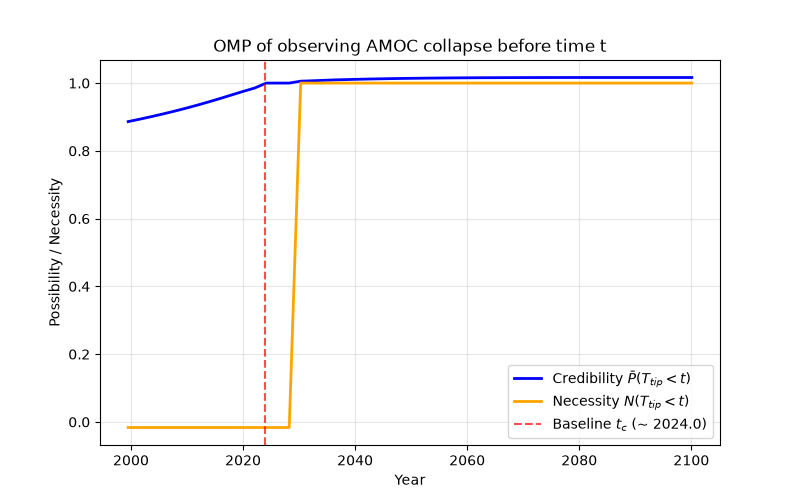
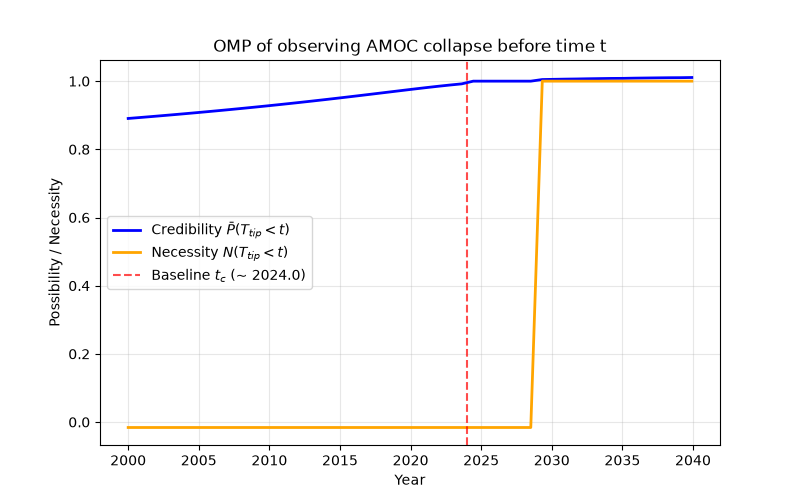
must do test with more equation points

diff --git a/main_ter.py b/main_ter.py
@@ -202,10 +202,10 @@ if __name__ == "__main__":
     function = joint_flattened
     max_loglik_global, best_params, other_params = MLE(function, params)
 
-    profiles = marg(function, params, max_loglik_global, best_params)
+    #profiles = marg(function, params, max_loglik_global, best_params)
 
-    plot_profiles(profiles, best_params, f"{function.__name__}_marg.png")
-    computed_intervals = credibility_intervals(profiles=profiles, intervals=intervals, func_name=function.__name__, threshold=0.25, filename="estimation_metrics.txt")
+    #plot_profiles(profiles, best_params, f"{function.__name__}_marg.png")
+    #computed_intervals = credibility_intervals(profiles=profiles, intervals=intervals, func_name=function.__name__, threshold=0.25, filename="estimation_metrics.txt")
 
     best_params.update(other_params)
 
@@ -225,10 +225,10 @@ if __name__ == "__main__":
     lambda0 = best_params["lambda0"] #need to concatenate dictionaries of estimated parameters!
     m = best_params["m"]
     t_c = best_params["t_c"]
-    print("t_c value = ", t_c)
+    #print("t_c value = ", t_c)
 
 
-    short_time = from_t0[(2000 <= from_t0) & (from_t0 <= t_c + 5)]
+    #short_time = from_t0[(2000 <= from_t0) & (from_t0 <= t_c + 5)]
 
 
     sim = False
@@ -256,7 +256,7 @@ if __name__ == "__main__":
 
 
 
-    # draw a line to show when the noise-induced tipping EK approx goes up again (sign that the approx is breaking down)
+    """# draw a line to show when the noise-induced tipping EK approx goes up again (sign that the approx is breaking down)
     short_time = np.array(from_t0[n//2:]) # for better visualization
     #short_time = short_time[short_time <= t_c]
     lamb_seq = [lambda_t_formula(t, lambda0, tau) for t in short_time]
@@ -277,7 +277,7 @@ if __name__ == "__main__":
     plt.grid(True, which="both", ls="--", alpha=0.5)
     plt.legend(fontsize=12)
     plt.savefig("images/mean_tau_noise_evolution.png")  # diagnostic, independent of joint vs joint_flattened -- left as-is
-    plt.close()
+    plt.close()"""
 
 
 
@@ -287,9 +287,6 @@ if __name__ == "__main__":
     potential_barrier = []
     #for i in range(len(short_time)):
         #potential_barrier.append(U(x_minus[i], lamb_seq[i], a, m) - U(x_plus[i], lamb_seq[i], a, m))
-
-
-
 
     test_time = [t for t in range(1, 160)]
     values = [best_params["alpha"], best_params["mu"], best_params["sigma2"], best_params["tau"], best_params["a"]]
@@ -316,8 +313,8 @@ if __name__ == "__main__":
     # Example & Possibility Curve Plotting
     # =============================================================================
 
-    T_max = t_c + 10
-    T_values = np.linspace(short_time[0], short_time[-1], num=50) #we just select 10 points
+    time_for_predict = np.arange(2000, 2040, 1 / 12)
+    T_values = np.linspace(time_for_predict[0], time_for_predict[-1], num=50) #we just select 50 points
     N_pts = len(T_values)
 
     poss_values = np.zeros_like(T_values)
@@ -467,7 +464,7 @@ if __name__ == "__main__":
     years = T_values #t0_year + T_values
 
 
-    evol = True
+    evol = False
     if evol:
         cmap_byr = LinearSegmentedColormap.from_list("BlueYellowRed", ["blue", "yellow", "red"])
 

diff --git a/constants.py b/constants.py
@@ -77,11 +77,11 @@ assert X_OBS is not None and T_OBS is not None, (
 
 T_SWITCH = 1924.0   # density switches from linearized (q) to Strang (s) here
 
-N_STAT, N_NONSTAT = 10, 25
-denom_norm = 1.0 / (N_STAT + N_NONSTAT)   # for normalizing the D_B sum to a per-transition average
+N_STAT, N_NONSTAT = 20, 50
+
 
 # FP-solver resolution for the true-model transitions entering D_B
-FP_N, FP_STEPS = 100, 50 #TODO: i have divided by 2 the resolution for faster speed but should improve for better accuracy
+FP_N, FP_STEPS = 200, 100 #TODO: i have divided by 2 the resolution for faster speed but should improve for better accuracy
 
 
 def _pick(idx, k):

diff --git a/example.py b/example.py
@@ -239,7 +239,7 @@ def flattened_loglik(theta, params):
     def inner_objective(tilde_theta):
         q_pdf = make_approx_pdf(tilde_theta, X_PREV, T_PREV, T_NEXT)
         D_B_sum = sol.bhattacharyya(q_pdf).sum()
-        return (denom_norm + 1)*(D_B_sum + joint(list(tilde_theta)))   # minimize D_B_sum - (-joint(tilde))
+        return (D_B_sum + joint(list(tilde_theta))) / (N_STAT + N_NONSTAT +1)  
 
     res = minimize(inner_objective, x0=list(theta), method="Nelder-Mead",
                     bounds=b(params), options={"xatol": 1e-3, "fatol": 1e-3})
